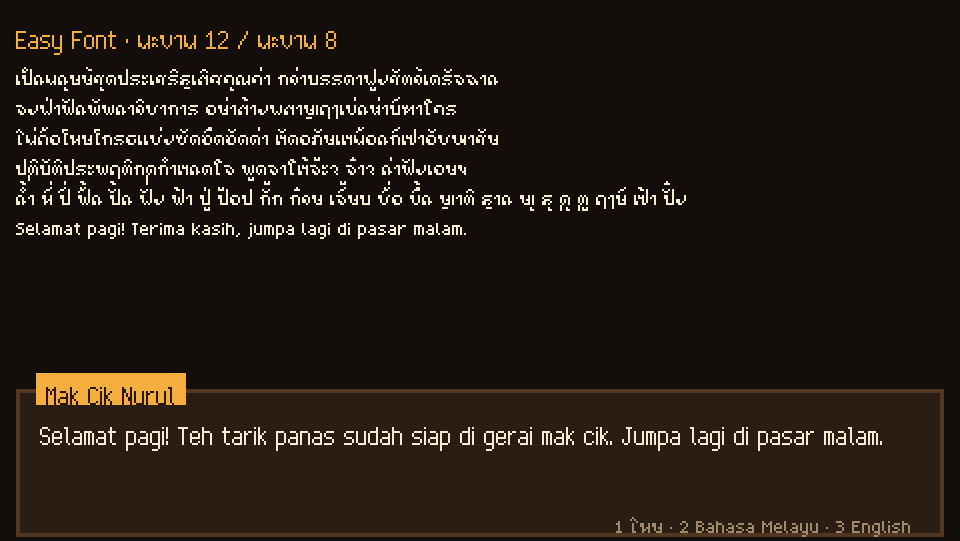
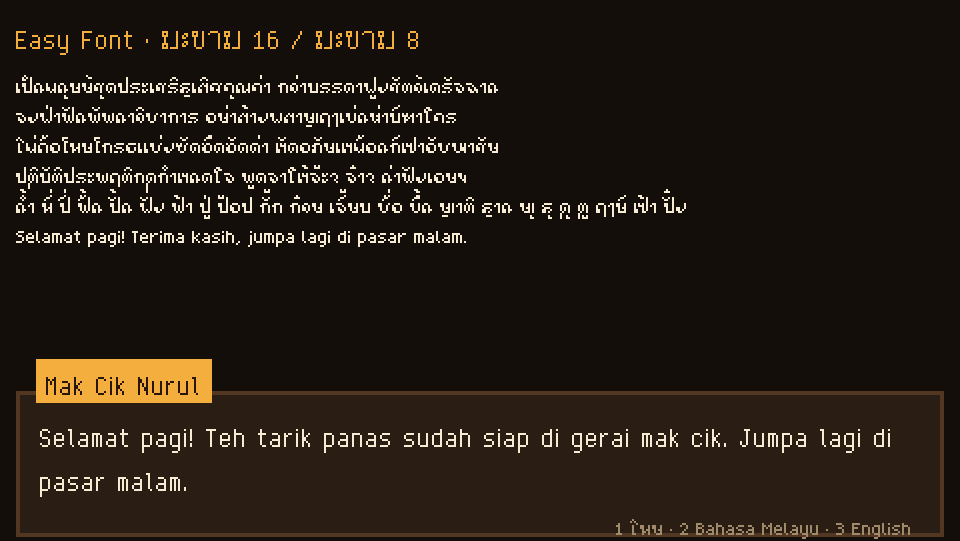
docs: มะขาม 16 is the default Thai font (display at 2x+), มะขาม 12 is legacy by id; regenerated previews, demos and editor shot

diff --git a/README.md b/README.md
@@ -36,15 +36,15 @@
 
 # Easy Font
 
-**ฟอนต์พิกเซลไทย มะขาม 12 และ มะขาม 8 · สระและวรรณยุกต์ซ้อนถูกที่ · ไทย Bahasa Melayu English**  
-Two original pixel bitmap fonts for games — **มะขาม 12 (Makham 12)** for dialogue and **มะขาม 8 (Makham 8)** for UI
-labels — that cover every Thai character, Latin (English and Malay) and common punctuation, with **correct Thai
+**ฟอนต์พิกเซลไทย มะขาม 16 · มะขาม 12 · มะขาม 8 · สระและวรรณยุกต์ซ้อนถูกที่ · ไทย Bahasa Melayu English**  
+Pixel bitmap fonts for games: **มะขาม 16 (Makham 16)** is the default Thai font for dialogue and UI text,
+**มะขาม 8 (Makham 8)** is for small UI labels, and **มะขาม 12 (Makham 12)** stays available by id for older projects. They that cover every Thai character, Latin (English and Malay) and common punctuation, with **correct Thai
 stacking**: tone marks drop when there is no upper vowel (ก่) and sit above one when there is (กี่), marks move left
 over ป ฝ ฟ ฬ, ญ ฐ lose their tails over ุ ู, and ำ goes under the tone mark (น้ำ). Draw glyphs as `#`/`.` text
 (`easyfont/1`), check them, and export **BMFont `.fnt` + PNG**, a **Godot 4.3+ FontFile** project with an `EasyFont`
 autoload, and a **PixiJS v8 BitmapFont** runtime. CLI, web editor and MCP server; local only, no network.
 
-<p align="center"><img src="docs/assets/makham-12-dialogue.png" width="70%" alt="Dialogue box in Makham 12: ป้านูรุล — สวัสดีจ้ะ น้ำชาร้อนๆ ที่ร้านป้าเปิดแล้ว" /></p>
+<p align="center"><img src="docs/assets/makham-16-dialogue.png" width="70%" alt="Dialogue box in Makham 16: ป้านูรุล — สวัสดีจ้ะ น้ำชาร้อนๆ ที่ร้านป้าเปิดแล้ว" /></p>
 
 | Godot 4.3 `EasyFont` demo (Thai) | PixiJS v8 BitmapText demo (Malay) |
 |---|---|
@@ -54,19 +54,25 @@ autoload, and a **PixiJS v8 BitmapFont** runtime. CLI, web editor and MCP server
 
 | Font | Size | Cell | Use | Glyphs |
 |---|---|---|---|---|
-| `makham-12` · มะขาม 12 | 12 px | 18 rows, baseline 15 | dialogue, titles | 193 drawn + 41 generated Thai presentation forms |
-| `makham-16` · มะขาม 16 | 16 px | 22 rows, baseline 18 | dialogue that must read easily: 9-row Thai body, looped heads, 2 px letter gap | 193 drawn + 41 generated |
+| `makham-16` · มะขาม 16 (**default**) | 16 px | 22 rows, baseline 18 | Thai dialogue, titles, UI text: 9-row Thai body, looped heads, 2 px letter gap | 193 drawn + 41 generated Thai presentation forms |
 | `makham-8` · มะขาม 8 | 8 px | 15 rows, baseline 12 | HUD, menus, item counts | 193 drawn + 41 generated |
+| `makham-12` · มะขาม 12 (legacy) | 12 px | 18 rows, baseline 15 | older projects; pick it with `--font makham-12` | 193 drawn + 41 generated |
 
-<p align="center"><img src="docs/assets/makham-12-specimen.png" width="88%" alt="Makham 12 specimen: Thai pangram poem, Malay and English" /></p>
-<p align="center"><img src="docs/assets/makham-16-specimen.png" width="88%" alt="Makham 16 specimen" /></p>
+**Display at 2× or larger** (integer scale, nearest filtering). At 1× the Thai marks are only one pixel apart.
+Size boxes from the font's line height (`EasyFont.line_of(id)` in Godot, `ef.fonts[id].line` in Pixi): 22 px for
+มะขาม 16 and 18 px for มะขาม 12.
+
+**Default font.** Tools that are not given a font (CLI, MCP, export manifest `default`, Godot `EasyFont.default_font`,
+web editor) use `makham-16`. A workspace without it falls back to `makham-12`, so older workspaces render exactly as before.
+
+<p align="center"><img src="docs/assets/makham-16-specimen.png" width="88%" alt="Makham 16 specimen: Thai pangram poem, Malay and English" /></p>
 <p align="center"><img src="docs/assets/makham-8-specimen.png" width="70%" alt="Makham 8 specimen" /></p>
+<p align="center"><img src="docs/assets/makham-12-specimen.png" width="70%" alt="Makham 12 specimen (legacy)" /></p>
 
 มะขาม 12 and มะขาม 8 are drawn from scratch for Easy Suite (loopless Thai, 2×2 heads, square Latin); they are not traced from any font.
-มะขาม 16 is a separate, opt-in font: a taller cell with looped Thai heads, tone marks stacked above upper vowels in
-their own zones, and 2 px between letters. Its Thai is hand-drawn using Noto Sans Thai Looped (OFL) as a proportion
-reference only, and its Latin and digits are the มะขาม 12 glyphs on the new baseline. Choosing it (`--font makham-16`)
-changes nothing for projects that use มะขาม 12. All three fonts are released under the **SIL Open Font License 1.1** with no Reserved Font Name, so you can ship, modify and rename
+มะขาม 16 has a taller cell with looped Thai heads, tone marks stacked above upper vowels in their own zones, Thai
+digits on the full body and 2 px between letters. Its Thai is hand-drawn using Noto Sans Thai Looped (OFL) as a
+proportion reference only, and its Latin and punctuation are the มะขาม 12 glyphs on the new baseline. All three fonts are released under the **SIL Open Font License 1.1** with no Reserved Font Name, so you can ship, modify and rename
 them. The code is MIT.
 
 ## Quick start
@@ -140,8 +146,9 @@ Full reference: [docs/FORMAT.md](docs/FORMAT.md).
 
 ```gdscript
 # Godot: always shape Thai text (apply() does it), turn Label autowrap off and wrap with EasyFont
-EasyFont.apply($Name, "ป้านูรุล", "makham-12", Color("#2a1606"))
-$Body.text = EasyFont.wrap("สวัสดีจ้ะ น้ำชาร้อนๆ ที่ร้านป้าเปิดแล้ว", "makham-12", 440)
+EasyFont.apply($Name, "ป้านูรุล", "makham-16", Color("#2a1606"))
+$Body.text = EasyFont.wrap("สวัสดีจ้ะ น้ำชาร้อนๆ ที่ร้านป้าเปิดแล้ว", "makham-16", 440)
+$Body.custom_minimum_size.y = 2 * EasyFont.line_of("makham-16")  # two lines of 22 px
 ```
 
 Line breaks: Thai has no spaces between words, so put U+200B (zero-width space) where a line may break; `wrap()`
@@ -219,5 +226,5 @@ workflow (CLI · web editor · MCP server) and the same targets (**Godot 4.3+** 
 
 ## Credits
 
-มะขาม 12 and มะขาม 8 are original designs, © 2026 Salahuddin Benno and the Easy Suite contributors, SIL OFL 1.1
+มะขาม 16, มะขาม 12 and มะขาม 8 are original designs, © 2026 Salahuddin Benno and the Easy Suite contributors, SIL OFL 1.1
 (`samples/OFL.txt`). See [CREDITS.md](CREDITS.md). Code: MIT.

diff --git a/install-plan/EASYFONT.md b/install-plan/EASYFONT.md
@@ -1,6 +1,6 @@
 # Easy Font — studio usage guide
 
-Original Thai / English / Malay pixel bitmap fonts for 2D games — **มะขาม 12** (dialogue) and **มะขาม 8** (UI) —
+Original Thai / English / Malay pixel bitmap fonts for 2D games — **มะขาม 16** (default Thai font for dialogue and UI text; display at 2× or larger), **มะขาม 8** (small UI labels) and **มะขาม 12** (legacy, by id) —
 with correct Thai vowel and tone-mark stacking. Agents **check the game's text, draw missing glyphs and export**
 BMFont `.fnt` + PNG, a Godot 4.3+ `FontFile` + `EasyFont` autoload, or a PixiJS v8 BitmapFont runtime. Nothing is
 generated by AI and nothing calls a network. Fonts: SIL OFL 1.1; code: MIT.
@@ -27,7 +27,7 @@ node …/easyfont-cli.mjs info $W
 node …/easyfont-cli.mjs check $W [--text "every line" "the game shows"]        # exit 1 on missing / stacking issues
 node …/easyfont-cli.mjs shape "น้ำ ปี่"                                         # presentation forms
 node …/easyfont-cli.mjs render "สวัสดีจ้ะ" --dialogue "ป้านูรุล" --out shot.png $W
-node …/easyfont-cli.mjs set-glyph € ".###/#.../###./#.../.###" --top 9 --font makham-12 $W
+node …/easyfont-cli.mjs set-glyph € ".###/#.../###./#.../.###" --top 9 --font makham-16 $W
 node …/easyfont-cli.mjs export --preset bmfont|godot|pixi|png|all $W
 node …/easyfont-cli.mjs serve $W                       # http://127.0.0.1:8948
 ```
@@ -35,13 +35,13 @@ node …/easyfont-cli.mjs serve $W                       # http://127.0.0.1:8948
 ## Godot import
 
 Export `--preset godot`, copy `easyfont/` into the game, add `res://easyfont/easyfont.gd` as the autoload
-**`EasyFont`**. Use `EasyFont.apply(label, text, "makham-12")` (sets font, size, shaped text), keep Label autowrap off
-and set `label.text = EasyFont.wrap(text, "makham-12", width)`. Easy UI: set `easyfont/makham-12.theme.tres` (or its
+**`EasyFont`**. Use `EasyFont.apply(label, text, "makham-16")` (sets font, size, shaped text), keep Label autowrap off
+and set `label.text = EasyFont.wrap(text, "makham-16", width)`. Easy UI: set `easyfont/makham-16.theme.tres` (or its
 font) as the theme font. Run `godot --headless --path <export> --script res://test_font.gd` and expect `OK`.
 
 ## Pixi
 
-`const ef = await loadEasyFonts(PIXI, "fonts/fonts.json"); stage.addChild(ef.text("น้ำชา", { font: "makham-12", fill: 0xf7ebd3, scale: 3, wrap: 300 }))`.
+`const ef = await loadEasyFonts(PIXI, "fonts/fonts.json"); stage.addChild(ef.text("น้ำชา", { font: "makham-16", fill: 0xf7ebd3, scale: 3, wrap: 300 }))`.
 
 ## Rules
 

diff --git a/CREDITS.md b/CREDITS.md
@@ -2,6 +2,10 @@
 
 ## Fonts
 
+- **มะขาม 16 (Makham 16)**: original pixel design drawn for Easy Suite. Its Thai glyphs are hand-drawn using
+  Noto Sans Thai Looped (© The Noto Project Authors, SIL OFL 1.1) as a proportion reference only, and no outlines
+  were copied. Its Latin and punctuation come from มะขาม 12. © 2026 Salahuddin Benno and the Easy Suite
+  contributors, SIL Open Font License 1.1, no Reserved Font Name.
 - **มะขาม 12 (Makham 12)** and **มะขาม 8 (Makham 8)** — original pixel designs drawn for Easy Suite in the `easyfont/1`
   text format. Not traced or derived from any other font. © 2026 Salahuddin Benno and the Easy Suite contributors.
   Licensed under the **SIL Open Font License 1.1**, no Reserved Font Name (`samples/OFL.txt`, copied into every export).

diff --git a/docs/MCP.md b/docs/MCP.md
@@ -19,4 +19,4 @@ Env `EASYFONT_WORKSPACE` sets the workspace when `--workspace` is not given.
 | `render_text` | `text`, `font?`, `scale?`, `wrap?`, `dialogue?` | PNG image (+ missing characters) |
 | `export_fonts` | `preset? bmfont|godot|pixi|png|all`, `fonts?[]` | `{ dirs, files, fonts, warnings }` |
 
-Default font: the one whose id ends in `12` (มะขาม 12).
+Default font: `makham-16` (มะขาม 16), then `makham-12` if a workspace has no มะขาม 16, then the first font.
